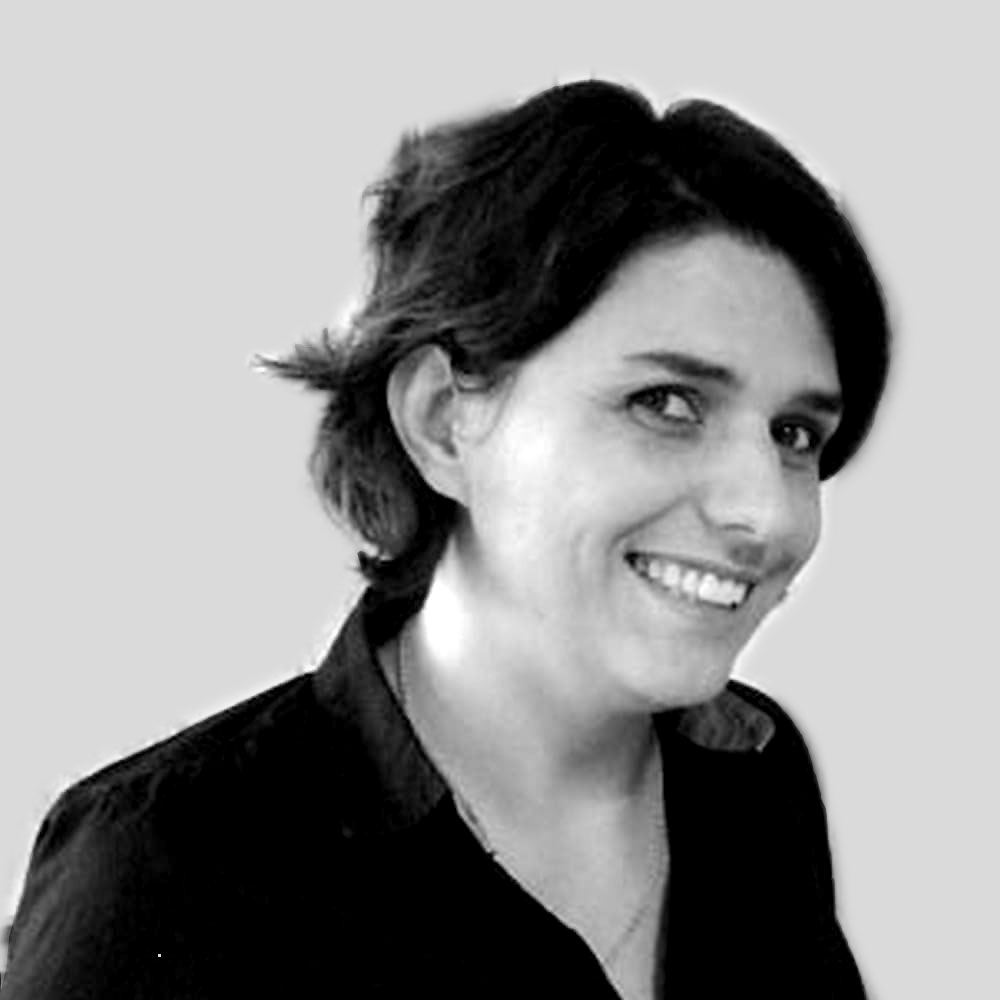
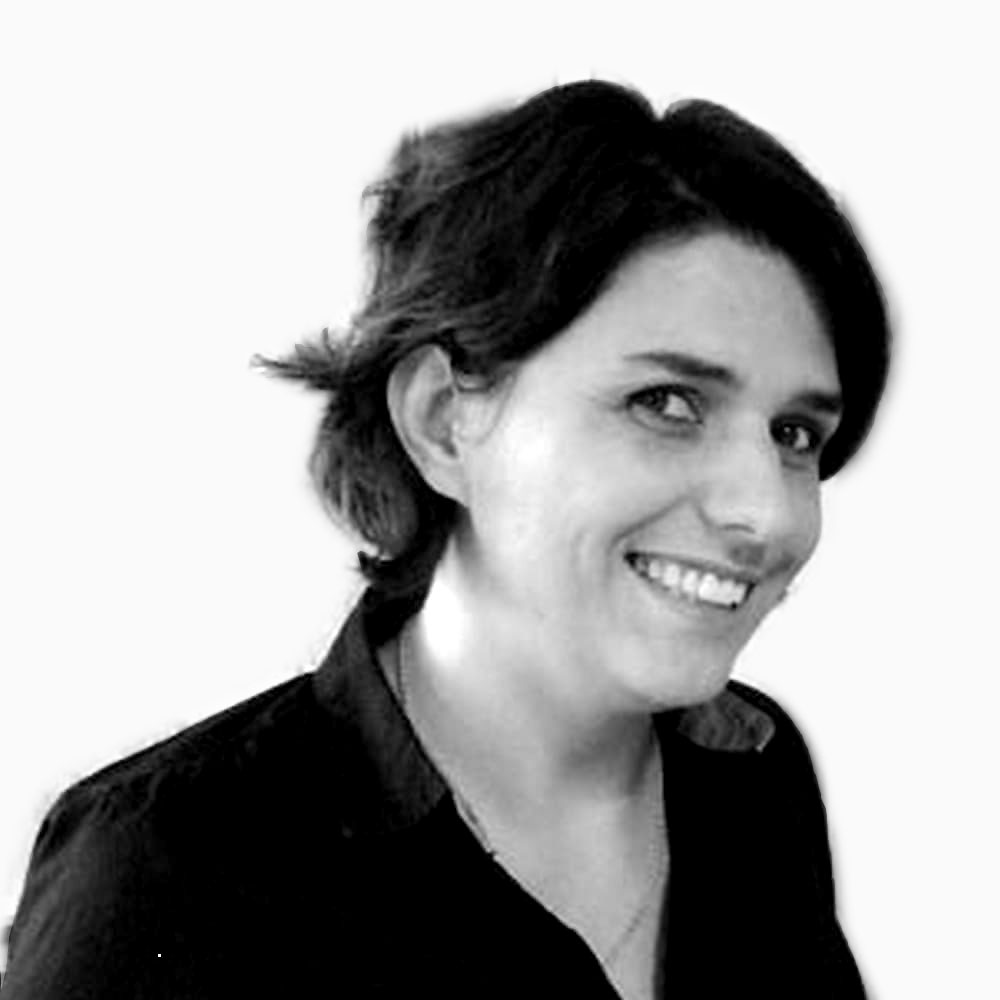
maj photo profils

diff --git a/agence.html b/agence.html
@@ -139,11 +139,10 @@
                         </div>
                     </div>
                     <div class="profil">
-                        <img src="./assets/images/agence/sergio.jpg" alt="Sergio LOPES">
+                        <img src="./assets/images/agence/benoit.jpg" alt="Benoît FELGUEIRAS">
                         <div>
-                            <h3>Sergio LOPES</h3>
-                            <p>Architecte HMONP</p>
-                            <p>Associé</p>
+                            <h3>Benoît FELGUEIRAS</h3>
+                            <p>Architecte DE</p>
                         </div>
                     </div>
                 </div>
